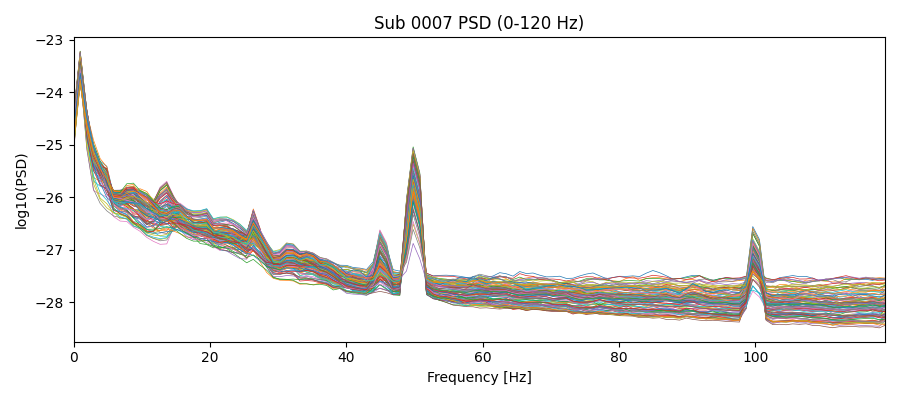
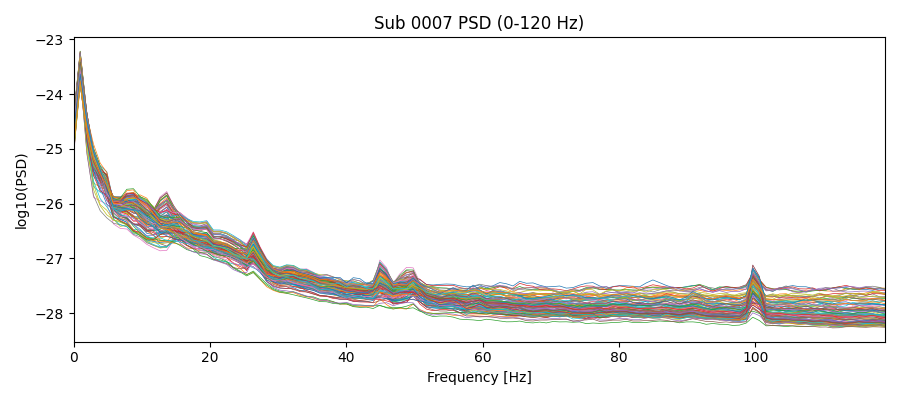
working step 01 effort

Changed region(s): [[0.0311, 0.21, 0.9956, 0.84], [0.0311, 0.75, 0.0933, 0.81], [0.0311, 0.6, 0.0933, 0.66]]

diff --git a/src/core/step_types.py b/src/core/step_types.py
@@ -19,8 +19,8 @@ class DataProcStep(Step):
         self.active = active
         self.save = save
 
-
     def run(self, data):
+        # run a data processing step
         if not self.active:
             print(f"[{self.name}] skipped (inactive)")
             return data
@@ -105,46 +105,60 @@ class PlotStep(Step):
 
 
 # -- DECORATOR WRAPPERS (for increased usability)
-def data_proc_step(name: str, save: bool = False):
+def data_proc_step(name: str, save: bool = False, active: bool = True):
     """Decorator to convert a function into a DataProcStep."""
     def decorator(func: Callable[..., Any]):  # Allow any number of parameters
-        @wraps(func)
-        def step_factory(*args, **kwargs):
+        @wraps(func) # wraps the function
+        def step_factory(*args, save=save, active=active, **kwargs):
             # Create the actual step class
             class FunctionStep(DataProcStep):
-                def __init__(self, func_args=None, func_kwargs=None):
-                    super().__init__(name=name, save=save)
+                def __init__(self, func_args=None, func_kwargs=None, save=save, active=active):
+                    # initializes DataProcStep with the arguments such that proc() runs the wraped func
+                    super().__init__(name=name, save=save, active=active)
                     self.func = func
                     self.func_args = func_args or ()
                     self.func_kwargs = func_kwargs or {}
                 
                 def proc(self, data):
                     print(f"Running {name}")
+
+                    # Get the function signature
+                    sig = signature(self.func)
+                    
+                    # Prepare kwargs to pass to the function
+                    call_kwargs = dict(self.func_kwargs)
+                    
+                    # If the function accepts 'context', inject self.context
+                    if 'context' in sig.parameters:
+                        call_kwargs['context'] = self.context  # <-- this is the magic!
+                    
+                    return self.func(data, *self.func_args, **call_kwargs)
+
                     # Call the original function with stored arguments + data as first param
                     return self.func(data, *self.func_args, **self.func_kwargs)
             
             # Return an instance of the step with the current arguments
-            return FunctionStep(args, kwargs)
+            return FunctionStep(args, kwargs, save=save, active=active)
         
         return step_factory
     return decorator
 
-def plot_step(name: str, save: bool = False, show: bool = False):
+def plot_step(name: str, save: bool = True, show: bool = False, active: bool = True):
     """Decorator to convert a function into a PlotStep."""
     def decorator(func: Callable[..., Any]):  # Allow any number of parameters
         @wraps(func)
-        def step_factory(*args, **kwargs):
+        def step_factory(*args, save=save, show=show, active=active, **kwargs):
             # Create the actual step class
         # This creates a NEW class that INHERITS from PlotStep
             class FunctionPlotStep(PlotStep):
-                def __init__(self, func_args=None, func_kwargs=None):
-                    super().__init__(name=name, save=save, show=show)
+                def __init__(self, func_args=None, func_kwargs=None, save=save, show=show, active=active):
+                    super().__init__(name=name, save=save, show=show, active=active)
                     self.func = func
                     self.func_args = func_args or ()
                     self.func_kwargs = func_kwargs or {}
             
                 def plot(self, data):
-                    print(f"Plotting {name}")
+                    print(f"Plotting {self.name}")
                     
                     # Get the function signature
                     sig = signature(self.func)
@@ -159,7 +173,7 @@ def plot_step(name: str, save: bool = False, show: bool = False):
                     return self.func(data, *self.func_args, **call_kwargs)
                 
             # Return an instance of the step with the current arguments
-            return FunctionPlotStep(args, kwargs)
+            return FunctionPlotStep(args, kwargs, save=save, show=show, active=active)
         
         return step_factory
     return decorator

diff --git a/src/steps/data_preproc.py b/src/steps/data_preproc.py
@@ -92,7 +92,15 @@ def set_channels(data, ch_dict: dict):
     # Check if channels exist before attempting to set types
     invalid_channels = set(ch_dict.keys()) - set(data.ch_names)
     if invalid_channels:
-        raise ValueError(f"Channels do not exist: {invalid_channels}")
+        ValueError(f"Channels do not exist: {invalid_channels}")
+
+        print("Here are the avaliable channel types:")
+        print(print(set(data.get_channel_types())))
+        print("Looking for existing stim channels...")
+        stim_ch_names = [ch for ch, ch_type in zip(data.ch_names, data.get_channel_types()) if ch_type == 'stim']
+        print(stim_ch_names)
+
+        raise
 
     try:
         raw = data.set_channel_types(ch_dict)
@@ -207,6 +215,8 @@ def run_ica_and_save(
     filt_high: float = 30.0,
     method: str = "fastica",
     random_state: int = 42,
+    *,
+    context=None
 ) -> BaseRaw:
     """
     Run ICA and save to disk, returning the filtered Raw object.
@@ -214,7 +224,6 @@ def run_ica_and_save(
 
     Args:
         data (Raw): Input data.
-        ica_fpath (Path): Where to save the ICA (.fif).
         filt_low (float or None): Low cutoff for bandpass filter (Hz). If None, skip.
         filt_high (float or None): High cutoff for bandpass filter (Hz). If None, skip.
         method (str): ICA algorithm (e.g., "fastica", "picard").
@@ -228,9 +237,15 @@ def run_ica_and_save(
 
     ica = ICA(n_components=n_components, method=method, random_state=random_state)
     ica.fit(raw_copy)
+    if not isinstance(context.output_dir, Path):
+        raise TypeError(f"context.out_dir is not Path type: {type(context.output_dir)}")
+    ica_dir = context.output_dir / "ica"
+    ica_dir.mkdir(parents=True, exist_ok=True)
+    ica_fname = f"{context.sub_id}-ica.fif"
+    ica_fpath = ica_dir / ica_fname
     ica.save(ica_fpath, overwrite=True)
     logger.info(f"saved ica to {ica_fpath}")
-
+    
     # Return original raw
     return data
 

diff --git a/src/premade/effort_pipe.py b/src/premade/effort_pipe.py
@@ -35,12 +35,14 @@ def create_effort_pipe():
         context=context
     )
     pipe.add_step(loadRaw(raw_path))
+    """# I wait for the real data
     pipe.add_step(set_channels(ch_dict={
             "UDIO001":"stim",
             "UADC009":"stim",
             "UADC010":"stim"
         }))
-    pipe.add_step(crop_data())
+    """
+    #pipe.add_step(crop_data(stim_channel='STI101')) # already cropped test_data
     @data_proc_step(name="pick_meg_stim", save=False)
     def pick_channels(data):
         return data.pick(picks=["meg", "stim", "grad", "misc"], exclude=["eeg"])
@@ -48,7 +50,7 @@ def create_effort_pipe():
     @data_proc_step(name="grad_comp", save=False)
     def grad_comp(data):
         return data.apply_gradient_compensation(3)
-    pipe.add_step(grad_comp())
+    #pipe.add_step(grad_comp(active=False))
     pipe.add_step(plot_psd(fmin=0, fmax=120, n_fft=2048))
     pipe.add_step(apply_zapline_denoising(
         fline=50.0,
@@ -64,7 +66,7 @@ def create_effort_pipe():
         n_components=20,
         filt_low=1,
         filt_high=30,
-        ))
+        save=True))
 
     return pipe
 
